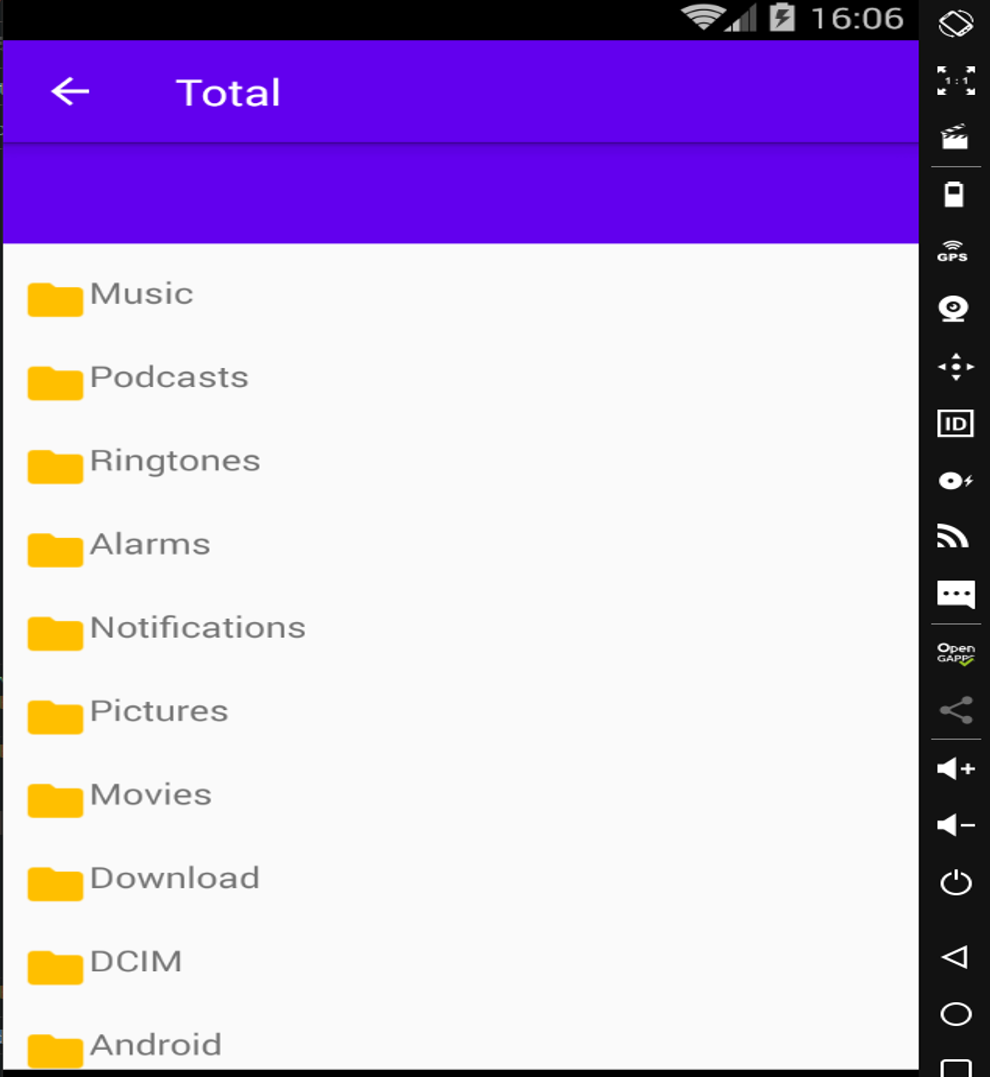
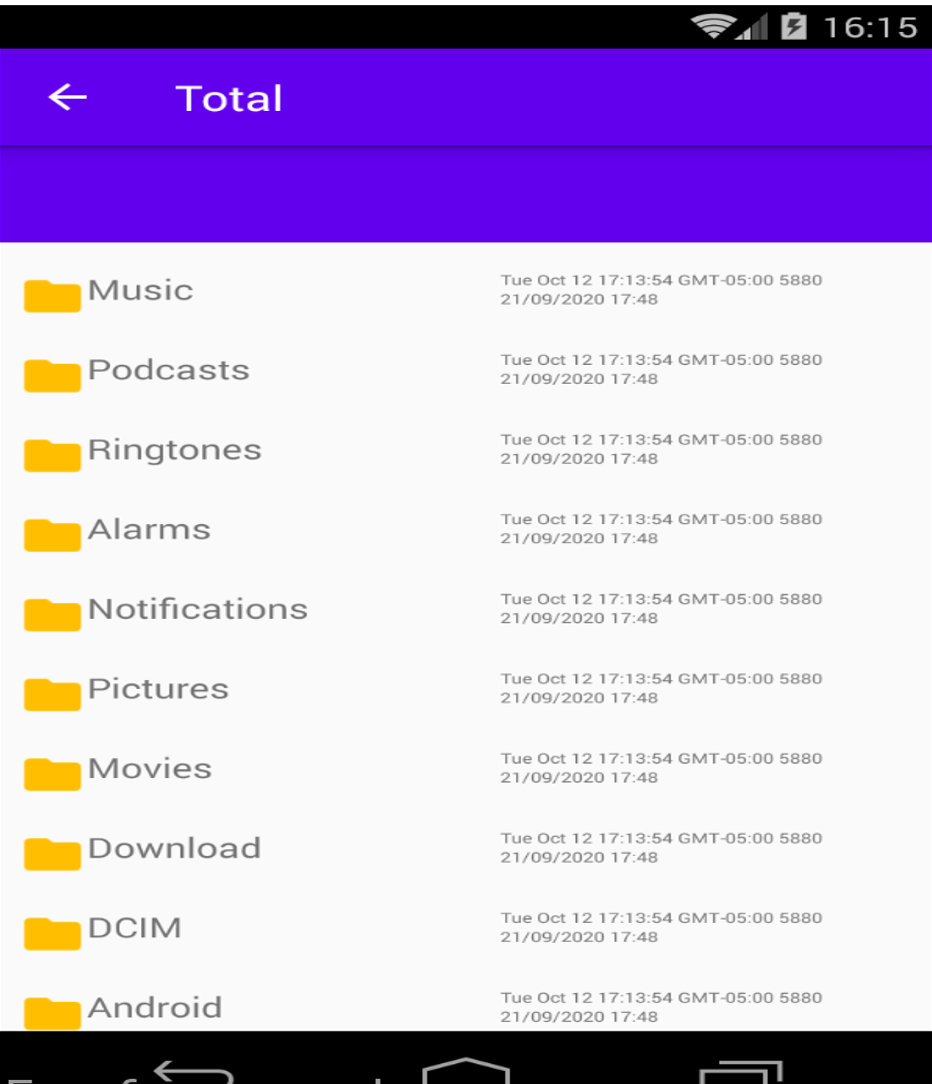
4. Проводник.[201250#231216]

diff --git a/app/src/main/java/ru/jo4j/total/TotalAdapter.java b/app/src/main/java/ru/jo4j/total/TotalAdapter.java
@@ -24,12 +24,12 @@ public class TotalAdapter extends RecyclerView.Adapter<TotalAdapter.TotalViewHol
     Context context;
     private String parentAbsolutePath;
 
-    public TotalAdapter(List<FileModel> fileModels) {
+    public TotalAdapter(List<FileModel> fileModels, Context c) {
         this.fileModels = fileModels;
+        context = c;
     }
 
     public class TotalViewHolder extends RecyclerView.ViewHolder {
-
         public TotalViewHolder(@NonNull View itemView) {
             super(itemView);
         }
@@ -45,15 +45,17 @@ public class TotalAdapter extends RecyclerView.Adapter<TotalAdapter.TotalViewHol
 
     @Override
     public void onBindViewHolder(@NonNull TotalAdapter.TotalViewHolder holder, final int position) {
+        TextView dateView = holder.itemView.findViewById(R.id.dateView);
+        dateView.setText(fileModels.get(position).getDate().toString());
         TextView textView = holder.itemView.findViewById(R.id.textView);
         textView.setText("" + fileModels.get(position).getName());
-
+        TextView modifiedDateView = holder.itemView.findViewById(R.id.modifiedDateView);
+        modifiedDateView.setText(fileModels.get(position).getFormattedModificationDate(context));
         ImageView imageView = holder.itemView.findViewById(R.id.imageView);
         if (fileModels.get(position).getDirectory()) {
             Picasso.get().load(R.drawable.ic_baseline_folder_24).into(imageView);
         } else {
             Picasso.get().load(R.drawable.ic_insert_drive_file_24).into(imageView);
-
         }
 
         View itemLayout = holder.itemView.findViewById(R.id.itemLayout);

diff --git a/app/src/main/java/ru/jo4j/total/model/FileTree.java b/app/src/main/java/ru/jo4j/total/model/FileTree.java
@@ -4,6 +4,7 @@ import android.os.Environment;
 
 import java.io.File;
 import java.util.ArrayList;
+import java.util.Date;
 import java.util.List;
 
 public class FileTree implements ITree {
@@ -16,7 +17,7 @@ public class FileTree implements ITree {
 
     @Override
     public FileModel getRootDir() {
-        return new FileModel(rootDirectory.getAbsolutePath(), rootDirectory.getName(), rootDirectory.isDirectory());
+        return new FileModel(rootDirectory, new Date(123412371234134L), rootDirectory.getAbsolutePath(), rootDirectory.getName(), rootDirectory.isDirectory());
     }
 
     @Override
@@ -24,7 +25,7 @@ public class FileTree implements ITree {
         File child = new File(childAbsolutePath);
         File parent = child.getParentFile();
         if (parent != null) {
-            return new FileModel(parent.getAbsolutePath(), parent.getName(), parent.isDirectory());
+            return new FileModel(child, new Date(123412371234134L), parent.getAbsolutePath(), parent.getName(), parent.isDirectory());
         } else {
             return null;
         }
@@ -40,7 +41,7 @@ public class FileTree implements ITree {
         List<FileModel> childrenList = new ArrayList<>();
         for (File child :
                 children) {
-            childrenList.add(new FileModel(child.getAbsolutePath(), child.getName(), child.isDirectory()));
+            childrenList.add(new FileModel(parent, new Date(123412371234134L), child.getAbsolutePath(), child.getName(), child.isDirectory()));
         }
         return childrenList;
     }

diff --git a/app/src/main/java/ru/jo4j/total/model/FileModel.java b/app/src/main/java/ru/jo4j/total/model/FileModel.java
@@ -1,12 +1,22 @@
 package ru.jo4j.total.model;
 
+import android.content.Context;
+
+import java.io.File;
+import java.text.DateFormat;
+import java.util.Date;
+
 public class FileModel {
 
+    private File mFile;
     private String absolutePath;
     private String name;
     private Boolean directory;
+    private Date date;
 
-    public FileModel(String absolutePath, String name, Boolean isDirectory) {
+    public FileModel(File file, Date date, String absolutePath, String name, Boolean isDirectory) {
+        mFile = file;
+        this.date = date;
         this.absolutePath = absolutePath;
         this.name = name;
         this.directory = isDirectory;
@@ -34,5 +44,24 @@ public class FileModel {
 
     public void setDirectory(Boolean directory) {
         this.directory = directory;
+    }
+
+    public Date getDate() {
+        return date;
+    }
+
+    public void setDate(Date date) {
+        this.date = date;
+    }
+
+    public File getFile() {
+        return mFile;
+    }
+
+    public String getFormattedModificationDate(Context c) {
+        DateFormat dateFormat = android.text.format.DateFormat.getDateFormat(c);
+        DateFormat timeFormat = android.text.format.DateFormat.getTimeFormat(c);
+        Date date = new Date(mFile.lastModified());
+        return dateFormat.format(date) + " " + timeFormat.format(date);
     }
 }

diff --git a/app/src/main/java/ru/jo4j/total/MainActivity.java b/app/src/main/java/ru/jo4j/total/MainActivity.java
@@ -7,6 +7,7 @@ import androidx.appcompat.widget.Toolbar;
 import androidx.recyclerview.widget.LinearLayoutManager;
 import androidx.recyclerview.widget.RecyclerView;
 
+import android.content.Context;
 import android.os.Bundle;
 import android.view.MenuItem;
 
@@ -33,8 +34,6 @@ public class MainActivity extends AppCompatActivity {
             FileModel rootDir = fileTree.getRootDir();
             initRecyclerView(fileTree.getChildrenByParent(rootDir.getAbsolutePath()));
         }
-
-
         Toolbar myChildToolbar = findViewById(R.id.toolbar);
         ActionBar ab = getSupportActionBar();
         ab.setDisplayHomeAsUpEnabled(true);
@@ -42,7 +41,7 @@ public class MainActivity extends AppCompatActivity {
 
     private void initRecyclerView(List<FileModel> dirs) {
         RecyclerView recyclerView = findViewById(R.id.recycler_view);
-        adapter = new TotalAdapter(dirs);
+        adapter = new TotalAdapter(dirs, this);
         recyclerView.setLayoutManager(new LinearLayoutManager(this));
         recyclerView.setAdapter(adapter);
     }
